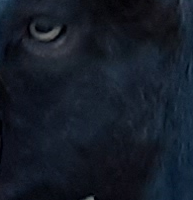
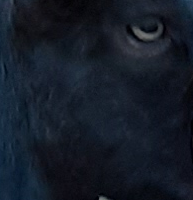
Complete canvas image drawing in header

diff --git a/portfolio/portfolio.js b/portfolio/portfolio.js
@@ -9,7 +9,8 @@ function getPageWidth() {
         document.documentElement.scrollWidth,
         document.body.offsetWidth,
         document.documentElement.offsetWidth,
-        document.documentElement.clientWidth);
+        document.documentElement.clientWidth
+    );
 }
 function getPageHeight() {
     return Math.max(
@@ -17,74 +18,101 @@ function getPageHeight() {
         document.documentElement.scrollHeight,
         document.body.offsetHeight,
         document.documentElement.offsetHeight,
-        document.documentElement.clientHeight);
+        document.documentElement.clientHeight
+    );
 }
 
+// Import images from head block.
 const headerCanvas = document.getElementById("header_canvas"),
       headerCtx = headerCanvas.getContext("2d");
 const titleArea = document.getElementsByClassName("title_area")[0],
       downloadResumeButton = document.getElementById("download_resume_button");
 const headerImageGoat = document.getElementById("header_img_goat"),
-      headerImageRobin = document.getElementById("header_img_robin");
+      headerImageGoatFlipped = document.getElementById("header_img_goat_flipped"),
+      headerImageRobin = document.getElementById("header_img_robin"),
+      headerImageRobinFlipped = document.getElementById("header_img_robin_flipped"),
+      headerImageFence = document.getElementById("header_img_fence"),
+      headerImageFenceFlipped = document.getElementById("header_img_fence_flipped");
 
-function drawImage(ctx, image, { x: xPos, y: yPos }, { width: rightBound, height: lowerBound }, { xFlip, yFlip }) {
+function drawImage(ctx, image, { x: xPos, y: yPos }, { width: rightBound, height: lowerBound }) {
     if (rightBound === 0 && lowerBound === 0) {
         console.error("Invalid arguments: rightBound or lowerBound must be non-zero.");
         return null;
     }
-    let originalWidth = image.width,
-        originalHeight = image.height;
     if (rightBound === 0) {
         let scaledWidth = image.width / image.height * lowerBound,
-            scaledHeight = lowerBound,
-            scaledX = xPos,
-            scaledY = yPos;
-        if (xFlip) {
-            scaledX += scaledWidth;
-            originalWidth *= -1;
-        }
-        if (yFlip) {
-            scaledY += scaledHeight;
-            originalHeight *= -1;
-        }
-        ctx.drawImage(image, 0, 0, originalWidth, originalHeight, scaledX, scaledY, scaledWidth, scaledHeight);
+            scaledHeight = lowerBound;
+        ctx.drawImage(image, 0, 0, image.width, image.height, xPos, yPos, scaledWidth, scaledHeight);
+        return scaledWidth;
     } else {
         let scaledHeight = image.height / image.width * rightBound,
-            scaledWidth = rightBound,
-            scaledX = xPos,
-            scaledY = yPos;
-        if (xFlip) {
-            scaledX += scaledWidth;
-            originalWidth *= -1;
-        }
-        if (yFlip) {
-            scaledY += scaledHeight;
-            originalHeight *= -1;
-        }
-        ctx.drawImage(image, 0, 0, originalWidth, originalHeight, scaledX, scaledY, scaledWidth, scaledHeight);
+            scaledWidth = rightBound;
+        ctx.drawImage(image, 0, 0, image.width, image.height, xPos, yPos, scaledWidth, scaledHeight);
+        return scaledHeight;
     }
 }
 
 function drawHeader() {
-    let titleAreaRect = titleArea.getBoundingClientRect();
+    let titleAreaRect = titleArea.getBoundingClientRect(),
+        buttonRect = downloadResumeButton.getBoundingClientRect();
 
     // Get lower bounds of content in the header.
-    let lowerBound = Math.max(
-        titleAreaRect.bottom,
-        downloadResumeButton.getBoundingClientRect().bottom);
+    let lowerBound = Math.max(titleAreaRect.bottom, buttonRect.bottom);
     headerCanvas.width = getPageWidth();
     headerCanvas.height = lowerBound;
 
     headerCtx.fillStyle = "green";
     headerCtx.fillRect(0, 0, headerCanvas.width, headerCanvas.height);
     
-    let imageGoatScaledWidth = headerImageGoat.width / headerImageGoat.height * lowerBound;
-    let imageGoatArea = titleAreaRect.right - imageGoatScaledWidth;
-    // while (imageGoatArea > 0) {
-    //     imageGoatArea -= imageGoatScaledWidth;
-    //     drawImage(headerCtx, headerImageGoat, {x: 0, y: 0}, {width: 0, height: lowerBound});
-    // }
-    drawImage(headerCtx, headerImageGoat, {x: 0, y: 0}, {width: 0, height: lowerBound}, {xFlip: false, yFlip: true});
+    // Draw header images according to how much space there is.
+    let imageGoatScaledWidth = headerImageGoat.width / headerImageGoat.height * lowerBound,
+        imageGoatArea = titleAreaRect.right - imageGoatScaledWidth,
+        imageGoatFlip = true,
+        imagesRightBound = imageGoatArea;
+    // Fill from the left with goat image just until title area is covered.
+    while (imageGoatArea > 0) {
+        imageGoatArea -= imageGoatScaledWidth;
+        drawImage(headerCtx,
+            imageGoatFlip ? headerImageGoatFlipped : headerImageGoat,
+            {x: imageGoatArea, y: 0},
+            {width: 0, height: lowerBound}
+        );
+        imageGoatFlip = !imageGoatFlip;
+    }
+    let imageRobinScaledWidth = headerImageRobin.width / headerImageRobin.height * lowerBound,
+        imageFenceScaledWidth = headerImageFence.width / headerImageFence.height * lowerBound;
+    imagesRightBound += drawImage(headerCtx,
+        headerImageRobin,
+        {x: imagesRightBound, y: 0},
+        {width: 0, height: lowerBound}
+    );
+    if (buttonRect.left > 2 * imageFenceScaledWidth + imageRobinScaledWidth + imagesRightBound) {
+        // Draw fence image if it won't cause the flipped robin image to enter button area after.
+        imagesRightBound += drawImage(headerCtx,
+            headerImageFence,
+            {x: imagesRightBound, y: 0},
+            {width: 0, height: lowerBound}
+        );
+        imagesRightBound += drawImage(headerCtx,
+            headerImageFenceFlipped,
+            {x: imagesRightBound, y: 0},
+            {width: 0, height: lowerBound}
+        );
+    }
+    imagesRightBound += drawImage(headerCtx,
+        headerImageRobinFlipped,
+        {x: imagesRightBound, y: 0},
+        {width: 0, height: lowerBound}
+    );
+    // Fill rest of the area with goat image.
+    while (imagesRightBound < headerCanvas.width) {
+        imageGoatFlip = !imageGoatFlip;
+        imagesRightBound += drawImage(headerCtx,
+            imageGoatFlip ? headerImageGoatFlipped : headerImageGoat,
+            {x: imagesRightBound, y: 0},
+            {width: 0, height: lowerBound}
+        );
+    }
 }
 
 window.onload = function() {

diff --git a/portfolio/index.html b/portfolio/index.html
@@ -17,7 +17,11 @@
     <title>Robin Campos Portfolio</title>
 
     <img src="Resources/goat_eye.png" alt="look into her eye" class="header_img" id="header_img_goat"></img>
+    <img src="Resources/goat_eye_flipped.png" alt="look into her eye" class="header_img" id="header_img_goat_flipped"></img>
     <img src="Resources/goat_robin.png" alt="look into my eyes" class="header_img" id="header_img_robin"></img>
+    <img src="Resources/goat_robin_flipped.png" alt="look into my eyes" class="header_img" id="header_img_robin_flipped"></img>
+    <img src="Resources/fence_robin.png" alt="look into my eye" class="header_img" id="header_img_fence"></img>
+    <img src="Resources/fence_robin_flipped.png" alt="look into my eye" class="header_img" id="header_img_fence_flipped"></img>
 
     <!-- "Cross" favicon from dpw4050 on favicon.cc -->
     <link rel="icon" href="Resources/cross.ico" type="image/x-icon"/>
